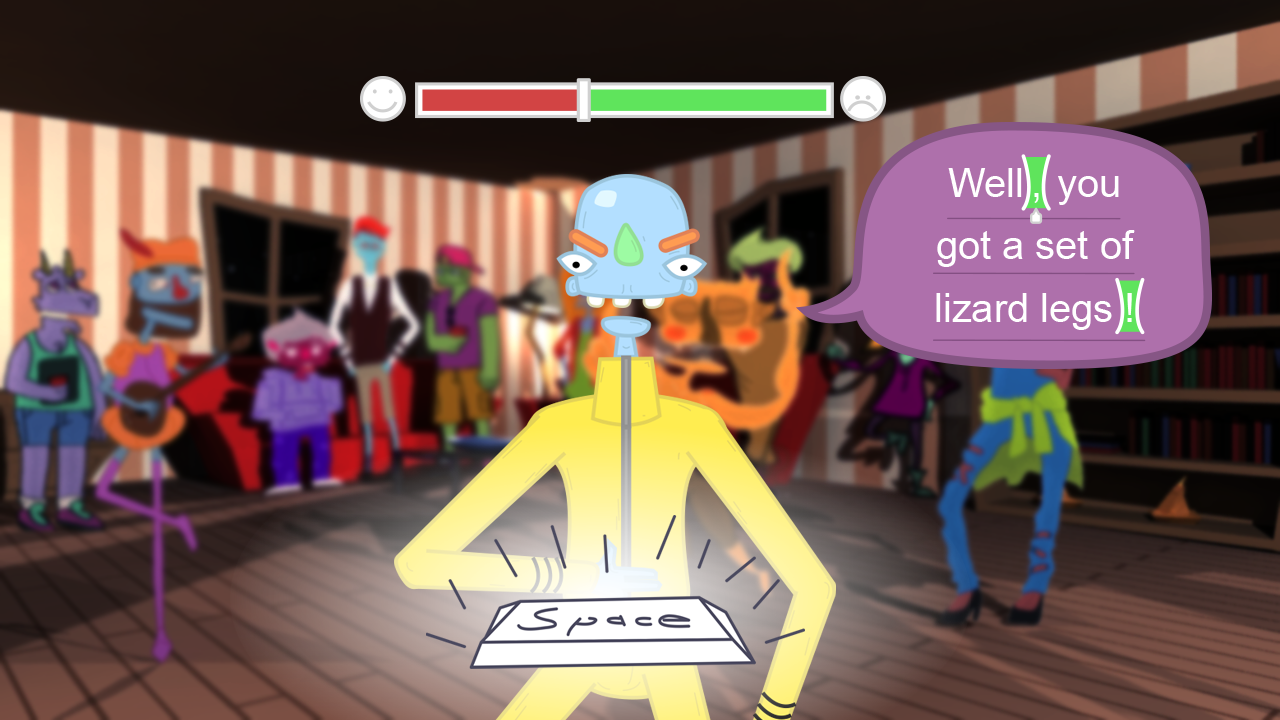
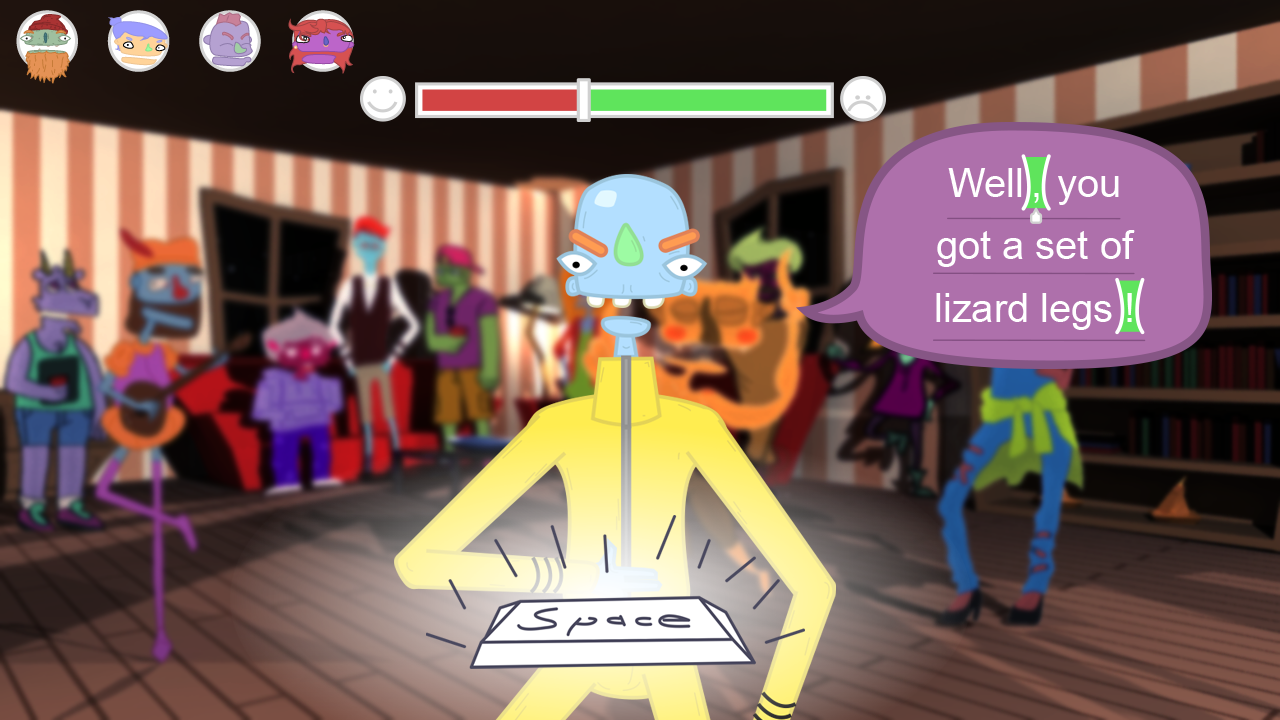
updated character interactions with michael's stuff

Changed region(s): [[0.0, 0.0, 0.2812, 0.1222]]

diff --git a/DesignDocument/Gameplay_CharacterInteractions.tex b/DesignDocument/Gameplay_CharacterInteractions.tex
@@ -1,5 +1,5 @@
 \section{Character Interactions}
-While exploring, the player may focus on an NPC by looking at them from within a certain distance. This will present the player with three options: Talk, Recruit, and Yell. These can be seen in Figure~\ref{fig:UI_npc_talk}.
+While exploring, the player may focus on an NPC by looking at them from within a certain distance. This will present the player with two options: Talk and Yell. These can be seen in Figure~\ref{fig:UI_npc_talk}.
 
 \subsection{Talk: Conversation}
 \label{sec:conversation}
@@ -25,12 +25,6 @@ The second type of conversation triggers when the focused NPC is in a \textbf{no
   \caption{Characters reacting to talk interactions}
 \end{figure}
 
-\subsection{Recruit: Squads and Followers}
-Once they player has become friends with an NPC, they may be recruited into the player's squad. As the player progresses through \ourgame{}, they will have the ability to make friends by building up a relationship with NPCs and completing quests for them.
-
-Friends may be recruited and will provide the player with an extra life during yelling contests. If and when this extra life is lost, the friend will also be lost and leave the player's squad.
-
-
 \subsection{Yell: Yelling Contests}
 \label{sec:yelling_contest}
 
@@ -41,28 +35,37 @@ When an NPC is in \textbf{insult} mode, they will bombard the player with contin
 After each battle, the player loses a little bit of their \textbf{voice}. As the player loses more of their voice, they will have less time to complete their insults in the yelling contest. The player can heal themselves by drinking beverages they find around the party. Implementing this limitation adds an extra level of strategy to the yelling contests, and requires the player to be mindful of how they use the Yell option.
 
 \begin{figure}[H]
-  \centering\begin{subfigure}{.33\textwidth}
+  \centering\begin{subfigure}{.44\textwidth}
     \centering
     \includegraphics[width=.9\linewidth]{images/UI_yelling_defense}
-    \caption{NPC in control - player must attempt to interject at highlighted pauses}
+    \caption{NPC in control - player attempts to interject at highlighted pauses}
     \label{fig:yelling_contest_a}
   \end{subfigure}%
-  \begin{subfigure}{.33\textwidth}
+  \begin{subfigure}{.44\textwidth}
     \centering
     \includegraphics[width=.9\linewidth]{images/UI_yelling_interrupt}
     \caption{Successful interjection by player}
     \label{fig:yelling_contest_b}
-  \end{subfigure}%
-  \begin{subfigure}{.33\textwidth}
+  \end{subfigure}
+  
+  \begin{subfigure}{.44\textwidth}
     \centering
     \includegraphics[width=.9\linewidth]{images/UI_yelling_offense}
-    \caption{Player in control - player must choose insults instead of compliments while maintaining the rhythm}
+    \caption{Player in control - player chooses insults instead of compliments while maintaining the rhythm}
     \label{fig:yelling_contest_c}
-  \end{subfigure}%
+  \end{subfigure} %
+	\begin{subfigure}{.44\textwidth}
+	  \centering
+	  \includegraphics[width=.9\linewidth]{images/UI_yelling_lifelost}
+	  \caption{Player with a lost life}
+	  \label{fig:yelling_contest_c}
+	\end{subfigure}%
   \caption{Yelling Contest mockups}
   \label{fig:yelling_contest}
 \end{figure}
 
+\subsubsection{Squads and Followers}
+In \ourgame{}, the player can have a squad of NPCs who act as lives during Yelling Contests. These lives are represented by portraits of each NPC in the squad, found in the top-left corner of the screen. The player can recruit NPCs into their squad by completing certain quests. If the player loses the round, the portrait of an NPC will be crossed out to show that they have been used up. If the player loses a round when all member of their squad have been used, they will lose the contest. Upon starting a new yelling contest, any squad members incapacitated in previous matches will be usable again. When the player travels to a different dimension, their squad will become empty.
 
 \subsubsection{D.I.S.S.}
 In addition to the player's voice, each character in \ourgame{} will have four primary statistics which affect their performance in yelling contests. Together, these form the D.I.S.S. system. When in yelling contests, the statistics of the active participants will heavily influence the player's ability to win.
